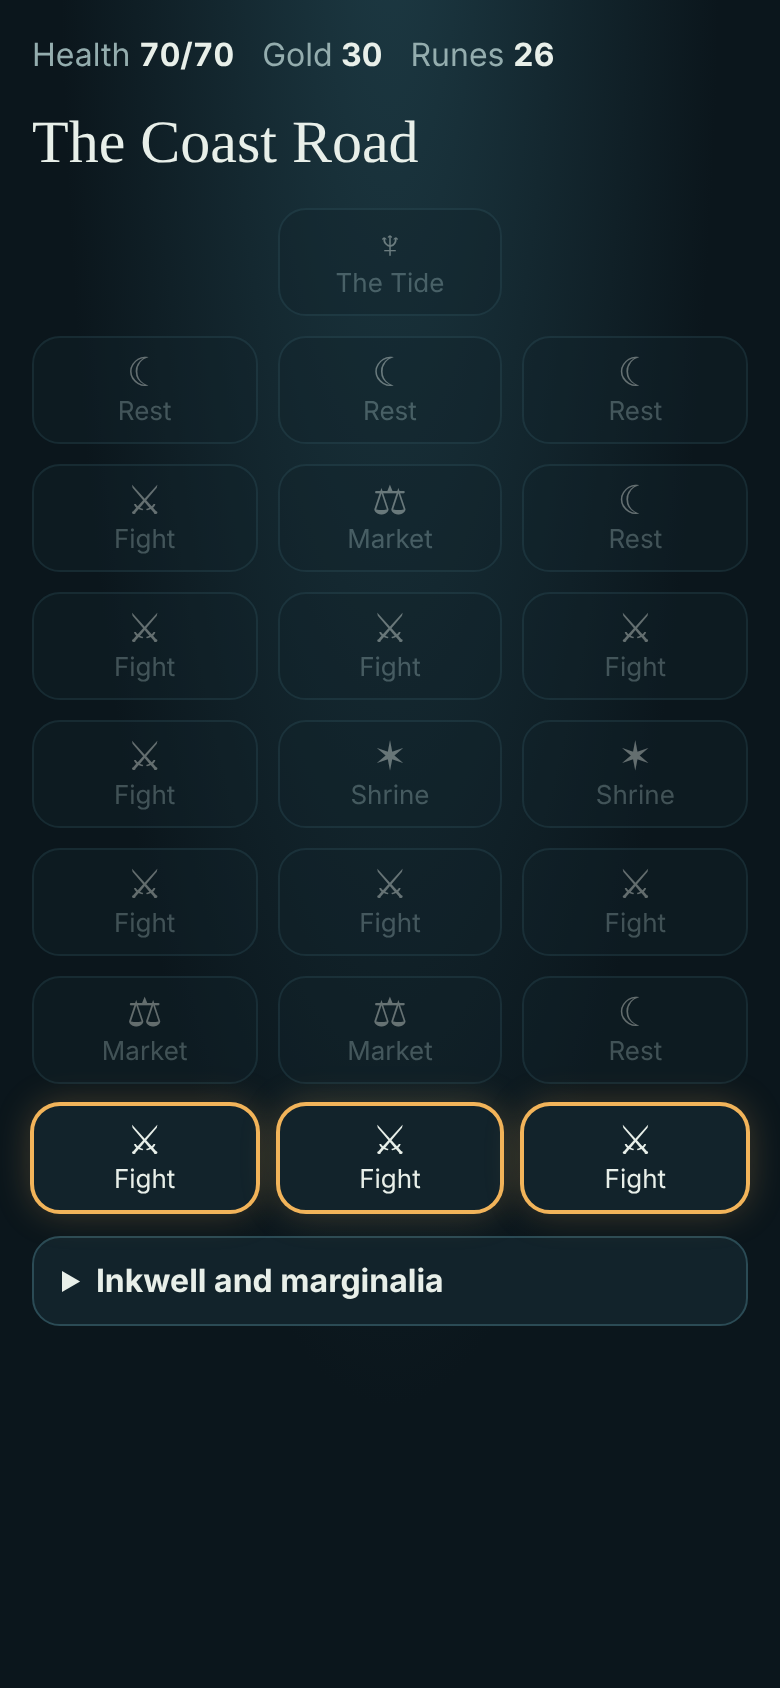
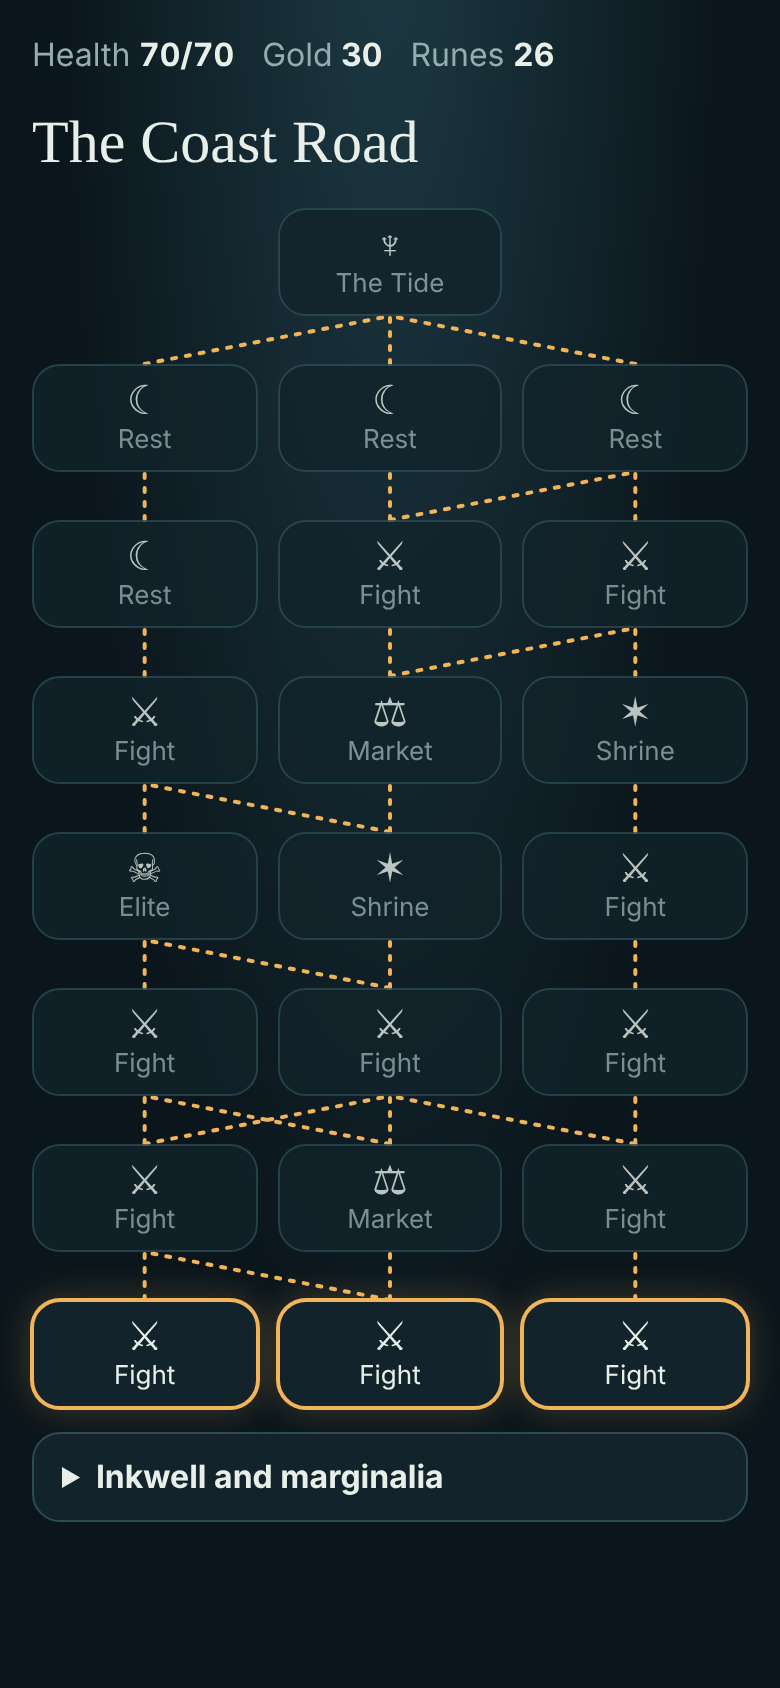
S02 Map routes

diff --git a/saltscript/src/main.js b/saltscript/src/main.js
@@ -1,8 +1,9 @@
 import { bestPath } from './core/bot.js'
 import { canExtend, intentOf, isValid, readGlyph } from './core/combat.js'
 import { inks, marginalia, shrines } from './core/data.js'
-import { act, createRun, markPrice, nodeAt, reachable, removePrice, runePrice } from './core/run.js'
+import { act, createRun, markPrice, nodeAt, openLanes, removePrice, runePrice } from './core/run.js'
 import { createBoard, numeral } from './ui/board.js'
+import { drawRoutes } from './ui/routes.js'
 import { loadRun, saveRun } from './ui/store.js'
 
 const $ = id => document.getElementById(id)
@@ -67,7 +68,7 @@ const renderTitle = () => {
 
 const renderMap = () => {
   statsBar($('map-bar'))
-  const open = reachable(run)
+  const open = openLanes(run)
   $('floors').replaceChildren(
     ...run.map.map((nodes, floor) =>
       el(
@@ -75,12 +76,14 @@ const renderMap = () => {
         { className: 'floor' },
         ...nodes.map(node => {
           const here = floor === run.floor && node.lane === run.lane
-          const can = floor === run.floor + 1 && open.includes(node.lane)
-          return el(
+          const can = floor === run.floor + 1 && open[floor].includes(node.lane)
+          const walked = run.trail[floor] === node.lane
+          const lost = !walked && !open[floor].includes(node.lane)
+          const button = el(
             'button',
             {
               type: 'button',
-              className: `node ${node.kind}${can ? ' open' : ''}${here ? ' here' : ''}`,
+              className: `node ${node.kind}${can ? ' open' : ''}${here ? ' here' : ''}${lost ? ' lost' : ''}`,
               disabled: !can,
               ariaLabel: `${labels[node.kind]}, floor ${floor + 1}`,
               onclick: () => dispatch({ type: 'choose', lane: node.lane }),
@@ -88,6 +91,8 @@ const renderMap = () => {
             el('span', { className: 'sym' }, symbols[node.kind]),
             labels[node.kind],
           )
+          button.dataset.lane = node.lane
+          return button
         }),
       ),
     ),
@@ -99,6 +104,7 @@ const renderMap = () => {
       : [el('p', {}, 'No marginalia yet. Elites, shrines and the market grant them.')]),
   )
   show('map')
+  drawRoutes($('links'), $('floors'), run)
 }
 
 const intentText = intent =>
@@ -327,6 +333,10 @@ canvas.addEventListener('pointerup', () => {
   }
   path = []
   if (run?.combat) renderPreview(run.combat)
+})
+
+window.addEventListener('resize', () => {
+  if (run?.screen === 'map') drawRoutes($('links'), $('floors'), run)
 })
 
 $('new-run').onclick = () => {

diff --git a/saltscript/src/ui/routes.js b/saltscript/src/ui/routes.js
@@ -1,0 +1,35 @@
+import { openLanes } from '../core/run.js'
+
+const svgNs = 'http://www.w3.org/2000/svg'
+
+const routeClass = (run, open, floor, lane, target) => {
+  if (run.trail[floor] === lane && run.trail[floor + 1] === target) return 'walked'
+  const live = run.trail[floor] === lane || open[floor].includes(lane)
+  return live && open[floor + 1].includes(target) ? 'ahead' : 'lost'
+}
+
+export const drawRoutes = (svg, list, run) => {
+  const origin = svg.getBoundingClientRect()
+  const open = openLanes(run)
+  const anchor = (floor, lane) => {
+    const rect = list.children[floor].querySelector(`[data-lane="${lane}"]`).getBoundingClientRect()
+    return { x: rect.left + rect.width / 2 - origin.left, top: rect.top - origin.top, bottom: rect.bottom - origin.top }
+  }
+  const lines = run.map.flatMap((nodes, floor) =>
+    nodes.flatMap(node =>
+      node.links.map(target => {
+        const from = anchor(floor, node.lane)
+        const to = anchor(floor + 1, target)
+        const line = document.createElementNS(svgNs, 'line')
+        line.setAttribute('x1', from.x)
+        line.setAttribute('y1', from.top)
+        line.setAttribute('x2', to.x)
+        line.setAttribute('y2', to.bottom)
+        line.setAttribute('class', routeClass(run, open, floor, node.lane, target))
+        line.dataset.floor = floor
+        return line
+      }),
+    ),
+  )
+  svg.replaceChildren(...lines)
+}

diff --git a/saltscript/test/run.test.js b/saltscript/test/run.test.js
@@ -1,7 +1,7 @@
 import assert from 'node:assert/strict'
 import { test } from 'node:test'
 import { bestPath } from '../src/core/bot.js'
-import { act, createRun, floors, nodeAt, reachable } from '../src/core/run.js'
+import { act, createRun, floors, nodeAt, openLanes, reachable } from '../src/core/run.js'
 
 const autoplay = seed => {
   let run = createRun(seed)
@@ -37,6 +37,20 @@ test('only linked nodes can be chosen', () => {
   run = { ...run, screen: 'map', combat: null }
   const blocked = [0, 1, 2].find(lane => !reachable(run).includes(lane))
   if (blocked !== undefined) assert.equal(act(run, { type: 'choose', lane: blocked }), run)
+})
+
+test('the trail records each step and open lanes follow the links ahead', () => {
+  const start = createRun(7)
+  assert.deepEqual(start.trail, [])
+  assert.deepEqual(openLanes(start)[0], [0, 1, 2])
+  const run = { ...act(start, { type: 'choose', lane: 0 }), screen: 'map', combat: null }
+  assert.deepEqual(run.trail, [0])
+  const open = openLanes(run)
+  assert.deepEqual(open[0], [])
+  assert.deepEqual(open[1], nodeAt(run, 0, 0).links)
+  const expected = [...new Set(open[1].flatMap(lane => nodeAt(run, 1, lane).links))]
+  assert.deepEqual(open[2], expected)
+  assert.deepEqual(open[floors - 1], [1])
 })
 
 test('rewards add a rune to the bag and return to the map', () => {

diff --git a/saltscript/src/core/run.js b/saltscript/src/core/run.js
@@ -70,6 +70,7 @@ export const createRun = seed => {
     map: createMap(rand),
     floor: -1,
     lane: null,
+    trail: [],
     hp: 70,
     maxHp: 70,
     gold: 30,
@@ -89,13 +90,22 @@ export const reachable = run => {
   return run.map[run.floor].find(node => node.lane === run.lane).links
 }
 
+export const openLanes = run => {
+  const open = run.map.map(() => [])
+  open[run.floor + 1] = reachable(run)
+  for (let floor = run.floor + 1; floor < floors - 1; floor++) {
+    open[floor + 1] = [...new Set(open[floor].flatMap(lane => nodeAt(run, floor, lane).links))]
+  }
+  return open
+}
+
 export const nodeAt = (run, floor, lane) => run.map[floor]?.find(node => node.lane === lane)
 
 const enter = (run, lane) => {
   const floor = run.floor + 1
   const node = nodeAt(run, floor, lane)
   const rand = rng(run.seed)
-  const at = { ...run, floor, lane }
+  const at = { ...run, floor, lane, trail: [...run.trail, lane] }
   if (['fight', 'elite', 'boss'].includes(node.kind)) {
     const combat = createCombat({
       bag: run.bag,

diff --git a/saltscript/e2e/play.js b/saltscript/e2e/play.js
@@ -33,6 +33,10 @@ try {
   await page.screenshot({ path: `${shots}title.png` })
   await page.click('#new-run')
   await page.screenshot({ path: `${shots}map.png` })
+  const firstFloorLinks = await page.evaluate(() =>
+    window.saltscript.run().map[0].reduce((sum, node) => sum + node.links.length, 0),
+  )
+  assert.equal(await page.locator('#links line[data-floor="0"]').count(), firstFloorLinks)
   await page.click('.node.open >> nth=0')
   assert.equal(await screen(), 'combat')
   let shot = false
@@ -66,6 +70,8 @@ try {
   await page.click('#continue')
   assert.equal(await page.locator('#map').isVisible(), true)
   assert.ok((await page.locator('.node.open').count()) >= 1)
+  assert.ok((await page.locator('#links line.walked, .node.lost').count()) >= 1)
+  await page.screenshot({ path: `${shots}map-walked.png` })
   assert.deepEqual(errors, [])
   console.log('e2e passed: first fight won by real swipes, reward taken, run continued after reload')
 } finally {

diff --git a/saltscript/src/ui/style.css b/saltscript/src/ui/style.css
@@ -171,7 +171,41 @@ button:disabled {
   padding: 0;
   display: flex;
   flex-direction: column-reverse;
-  gap: 10px;
+  gap: 24px;
+  position: relative;
+}
+
+.road {
+  position: relative;
+}
+
+.links {
+  position: absolute;
+  inset: 0;
+  width: 100%;
+  height: 100%;
+  pointer-events: none;
+}
+
+.links line {
+  stroke: var(--mist);
+  stroke-width: 2;
+  stroke-linecap: round;
+  stroke-dasharray: 2 5;
+}
+
+.links line.ahead {
+  stroke: var(--lamp);
+}
+
+.links line.walked {
+  stroke: var(--foam);
+  stroke-width: 3;
+  stroke-dasharray: none;
+}
+
+.links line.lost {
+  opacity: 0.2;
 }
 
 .floor {
@@ -207,6 +241,14 @@ button:disabled {
     0 0 0 1px var(--lamp),
     0 0 18px rgb(242 180 90 / 0.25);
   color: var(--foam);
+}
+
+.node:disabled {
+  opacity: 0.8;
+}
+
+.node.lost {
+  opacity: 0.25;
 }
 
 .node.here {

diff --git a/saltscript/index.html b/saltscript/index.html
@@ -26,7 +26,10 @@
     <section id="map" class="screen" hidden>
       <header class="bar" id="map-bar"></header>
       <h2 class="screen-title">The Coast Road</h2>
-      <ol id="floors" class="floors"></ol>
+      <div class="road">
+        <svg id="links" class="links" aria-hidden="true"></svg>
+        <ol id="floors" class="floors"></ol>
+      </div>
       <details class="inkwell">
         <summary>Inkwell and marginalia</summary>
         <div id="inkwell"></div>

diff --git a/saltscript/src/ui/store.js b/saltscript/src/ui/store.js
@@ -2,7 +2,8 @@ const key = 'saltscript.run'
 
 export const loadRun = () => {
   try {
-    return JSON.parse(localStorage.getItem(key))
+    const saved = JSON.parse(localStorage.getItem(key))
+    return saved && { trail: [], ...saved }
   } catch {
     return null
   }

diff --git a/saltscript/BACKLOG.md b/saltscript/BACKLOG.md
@@ -4,10 +4,6 @@ The build agent takes items from the top of **Next**, one commit each. Scheduled
 
 ## Next
 
-### S02 Map routes
-
-Draw the links between floors on the map (an SVG layer behind the node grid) so a route can be planned; mark the trail already walked and dim nodes that can no longer be reached. Done when e2e asserts the link count of floor 1 and the screenshot shows the lines.
-
 ### S03 Combat feel
 
 Floating numbers over the foe (wound, burn) and the player (damage, ward); the glyph name flourishes on write; the foe turn resolves 600 ms after the last stroke so the player sees its intent land; salt cracks in visibly. Respect `prefers-reduced-motion`. Done when every combat event has visible feedback and e2e still wins the first fight.
@@ -65,6 +61,7 @@ axe in e2e on every screen with no serious or critical violations; a tap alterna
 ## Done
 
 - S01 Playable MVP: map, fights, glyph scoring, rewards, market, rest, shrines, boss, saved runs, e2e (2026-11-02, built in the conversation)
+- S02 Map routes: SVG links behind the nodes, walked trail, unreachable nodes dimmed (2026-11-02)
 
 MVP rule: every commit keeps `npm test`, `npm run check` and `npm run e2e` green.
 

diff --git a/saltscript/MEMORY.md b/saltscript/MEMORY.md
@@ -11,3 +11,5 @@ Rewritten by each run; keep it short.
 - Chromium at `/opt/pw-browsers/chromium-1243/chrome-linux64/chrome` (override with `CHROMIUM`); `playwright-core` only
 - Biome formats Markdown too; run `npm run fix` before committing
 - Fetch `poc` with `git fetch origin +refs/heads/poc:refs/remotes/origin/poc` before `git checkout -B poc origin/poc`
+- `run.trail` lists the lane chosen per floor; `openLanes(run)` gives lanes still reachable per floor; `drawRoutes` in `src/ui/routes.js` measures node rects after `show('map')`
+- `add_repo` may be missing from the tools; the session's clone already fetches and pushes
